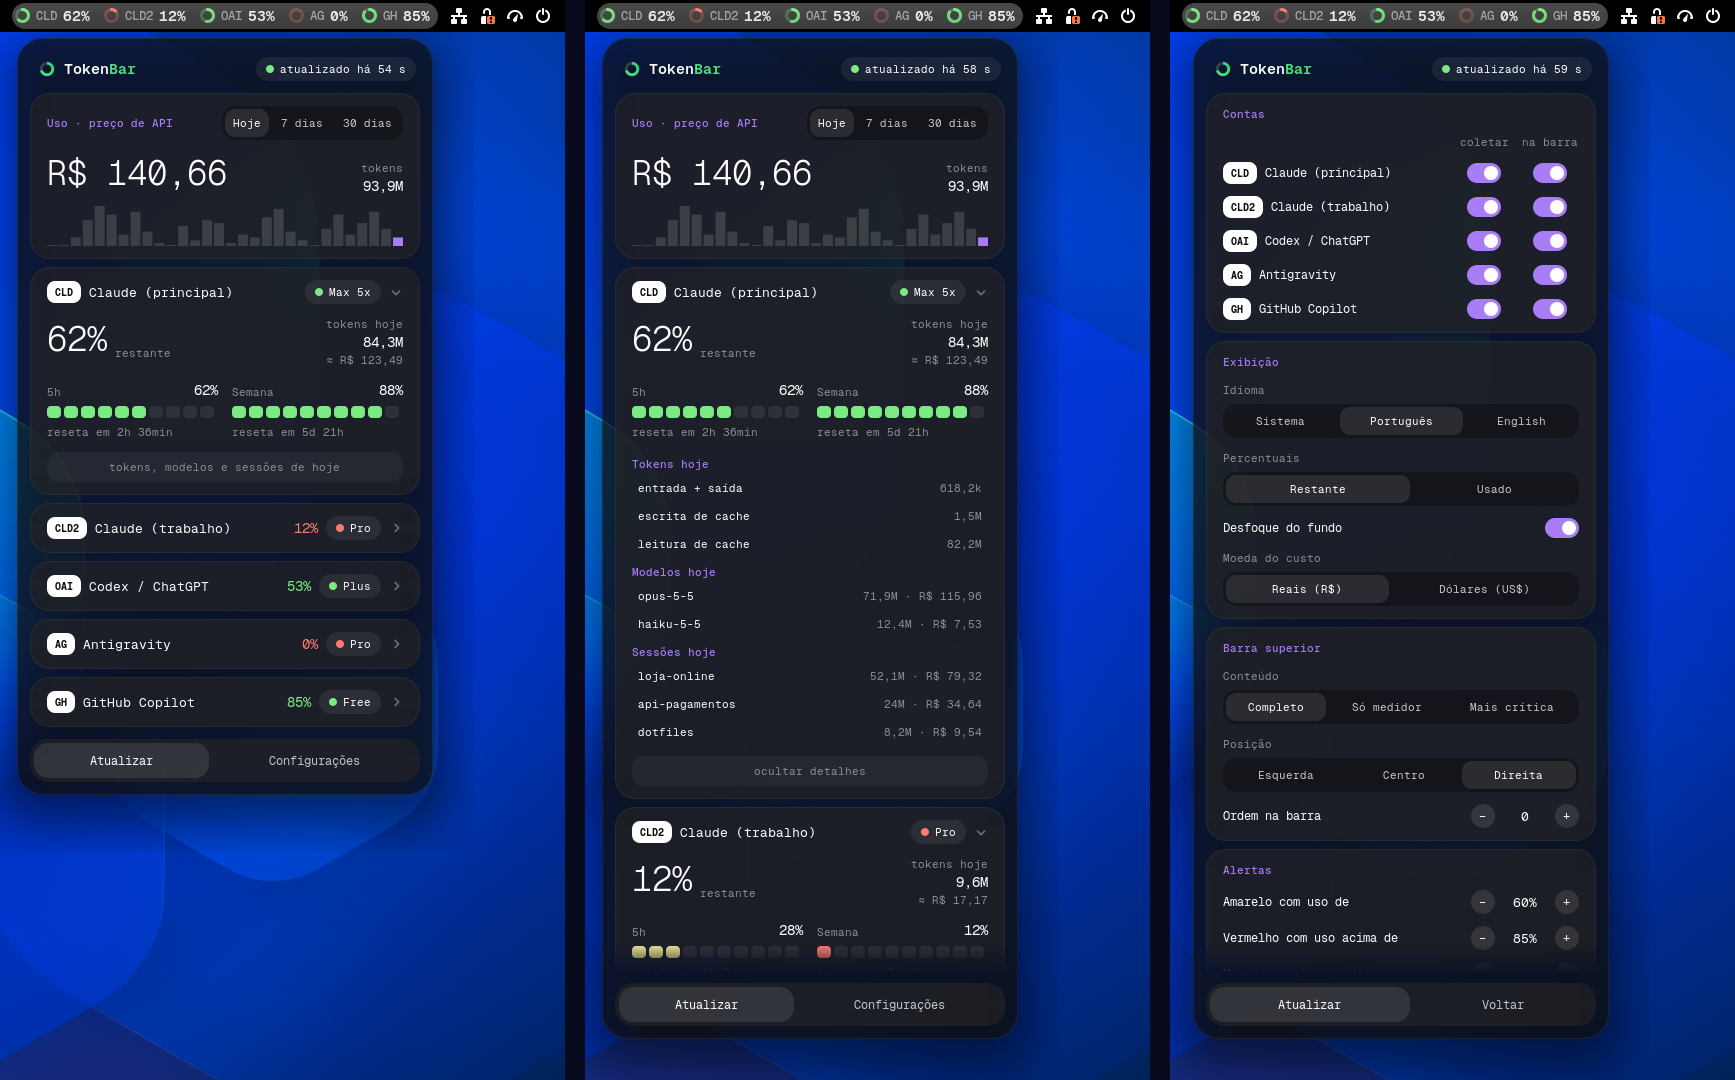
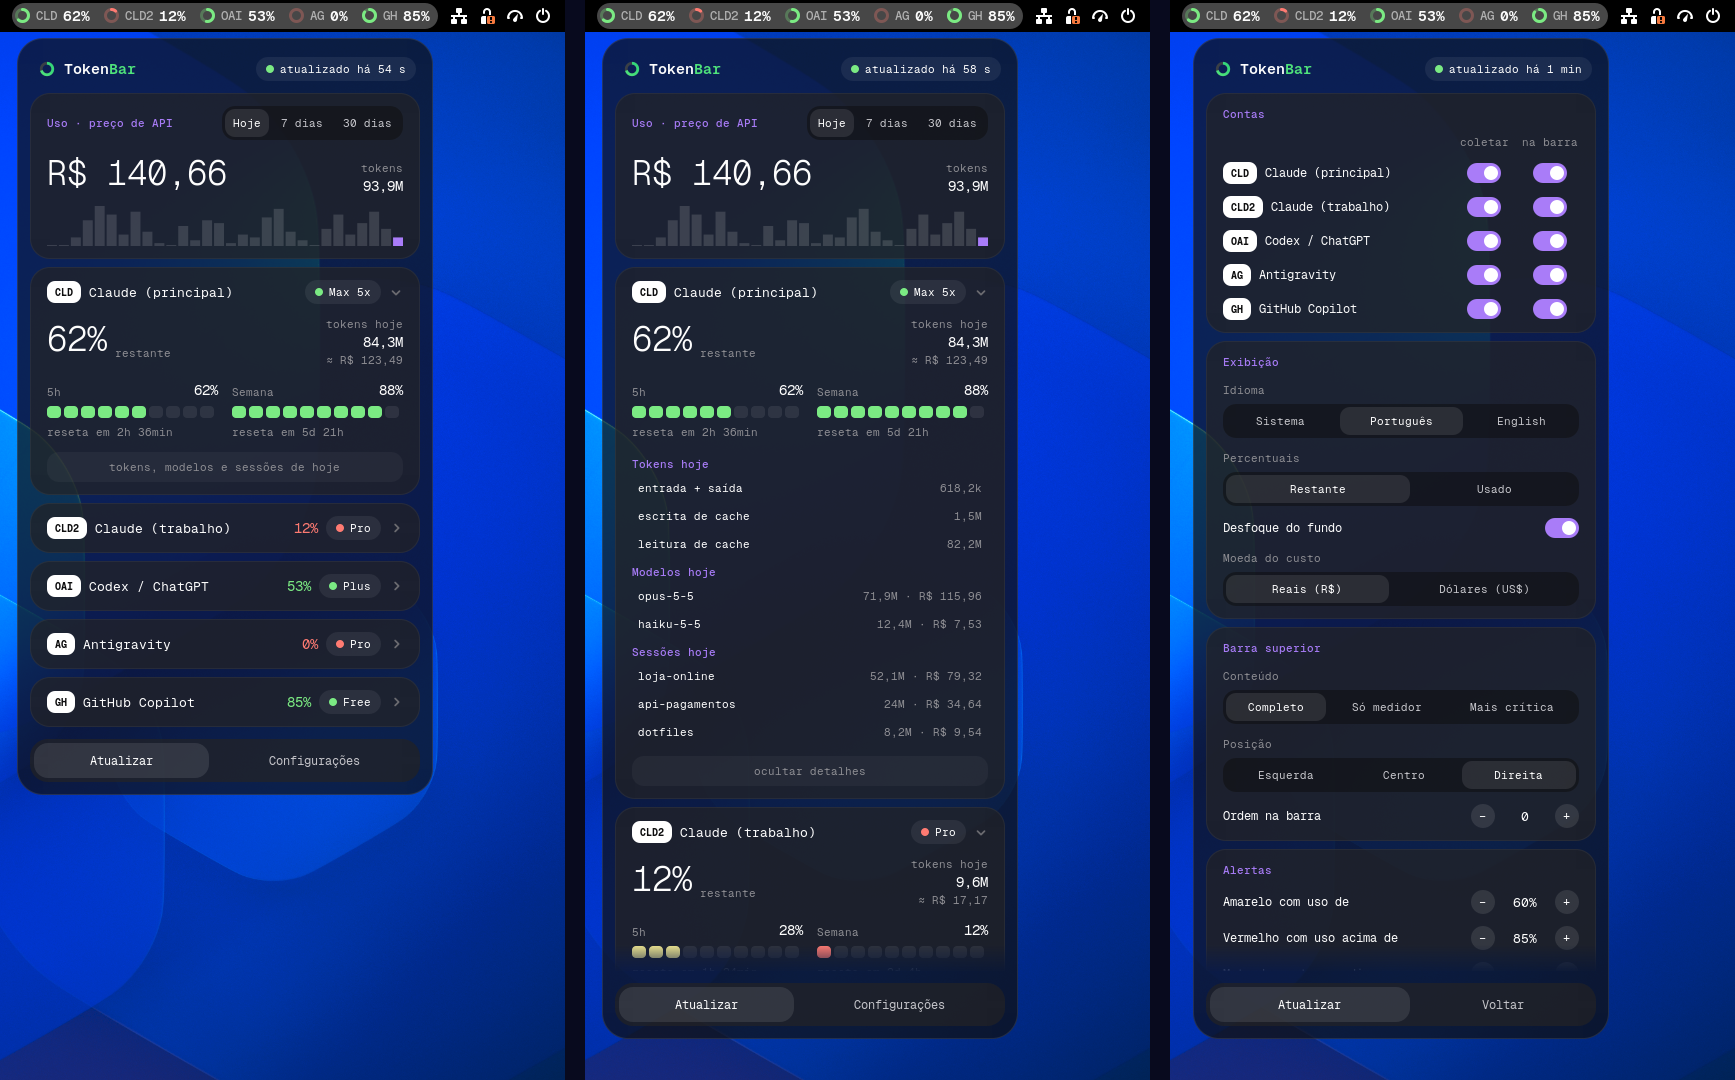
Remove the panel drop shadow
GNOME's menu clips everything outside its own area, so the shadow showed up
as a dark rectangle around the panel. The panel keeps a slightly stronger
border instead.

Changed region(s): [[0.6536, 0.0306, 0.9648, 1.0], [0.3112, 0.0306, 0.6225, 1.0], [0.0, 0.0306, 0.2801, 0.7944]]

diff --git a/extension/tokenbar@tokenbar/stylesheet.css b/extension/tokenbar@tokenbar/stylesheet.css
@@ -69,9 +69,10 @@
 
 .tokenbar-surface {
   border-radius: 26px;
-  border: 1px solid rgba(255, 255, 255, 0.07);
+  border: 1px solid rgba(255, 255, 255, 0.1);
   background-color: rgba(15, 15, 16, 0.7);
-  box-shadow: 0 16px 40px rgba(0, 0, 0, 0.5);
+  /* Sem box-shadow: o menu do GNOME corta tudo o que passa da área dele, e a
+     sombra aparecia como um retângulo escuro em volta do painel. */
 }
 
 .tokenbar-surface.tokenbar-surface-solid {
